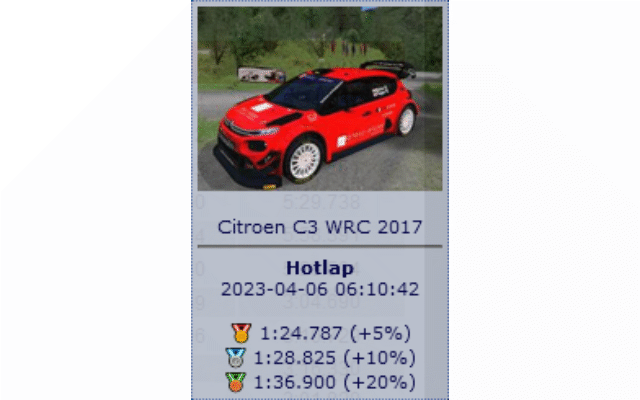
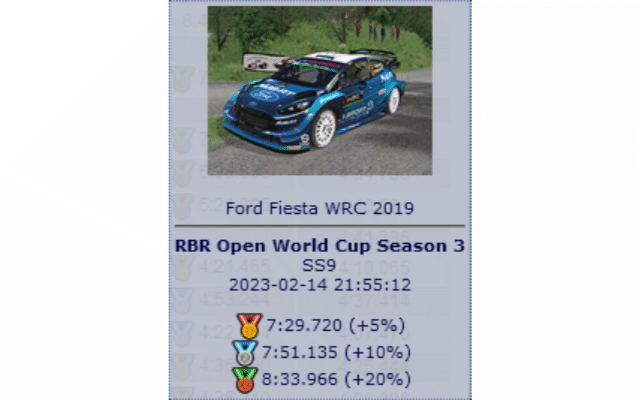
Updated screenshots

Changed region(s): [[0.25, 0.0, 0.75, 1.0]]

diff --git a/README.md b/README.md
@@ -32,3 +32,7 @@ Simply install the extension then, when you visit your [user stats](https://rall
 <p align="center">
   <img src="screenshots/screenshot-02.png" />
 </p>
+
+<p align="center">
+  <img src="screenshots/screenshot-03.png" />
+</p>
